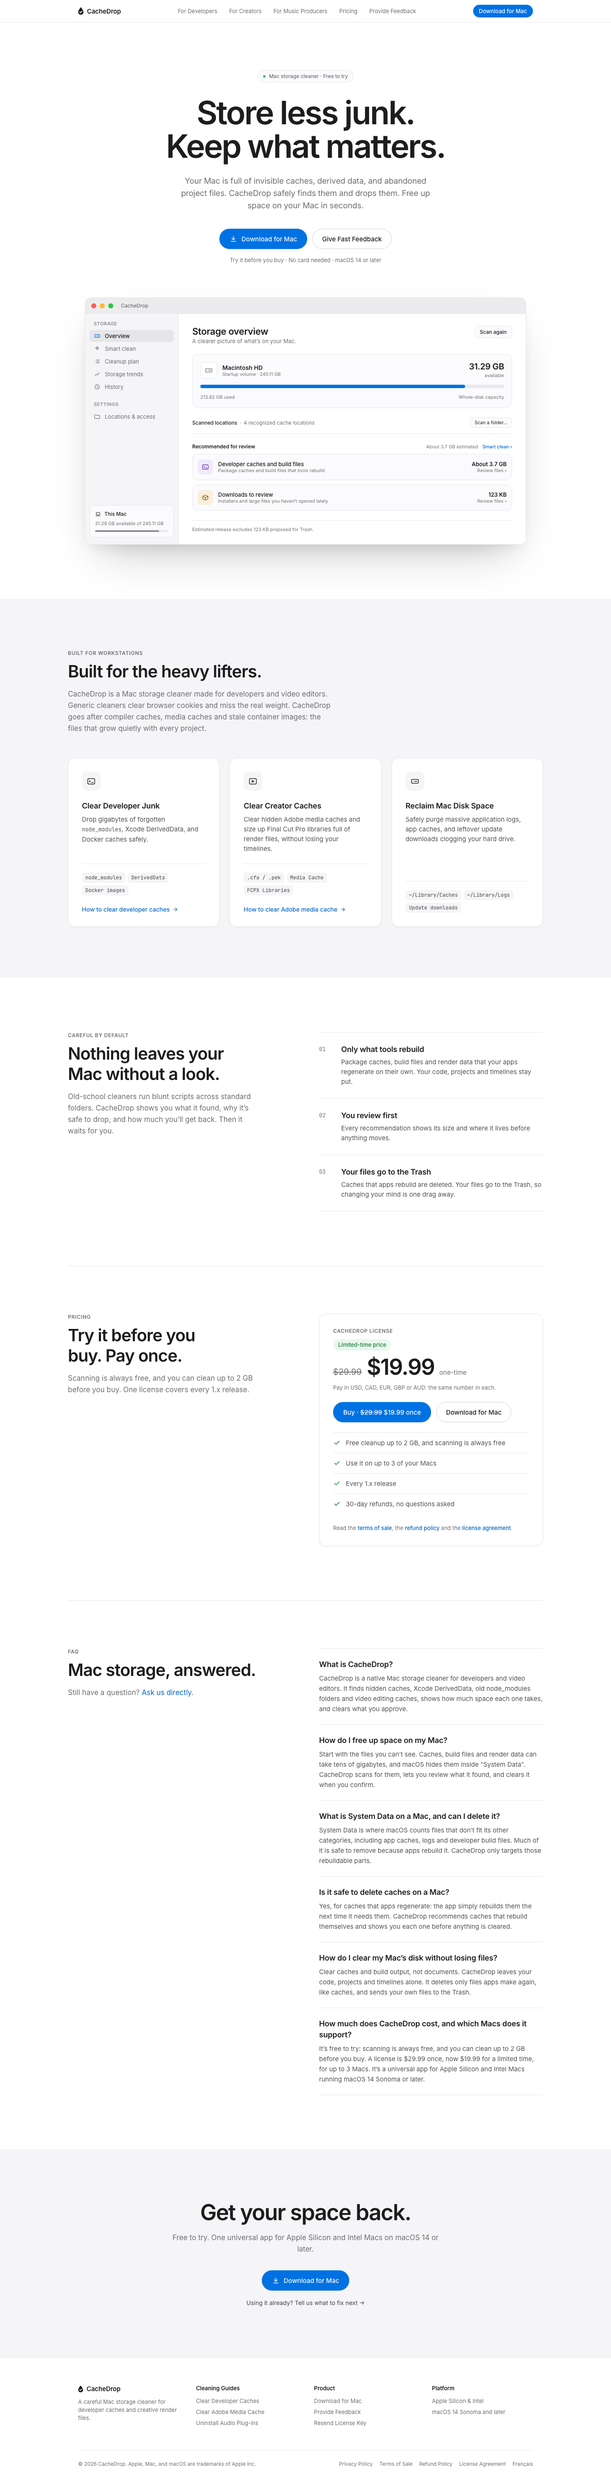
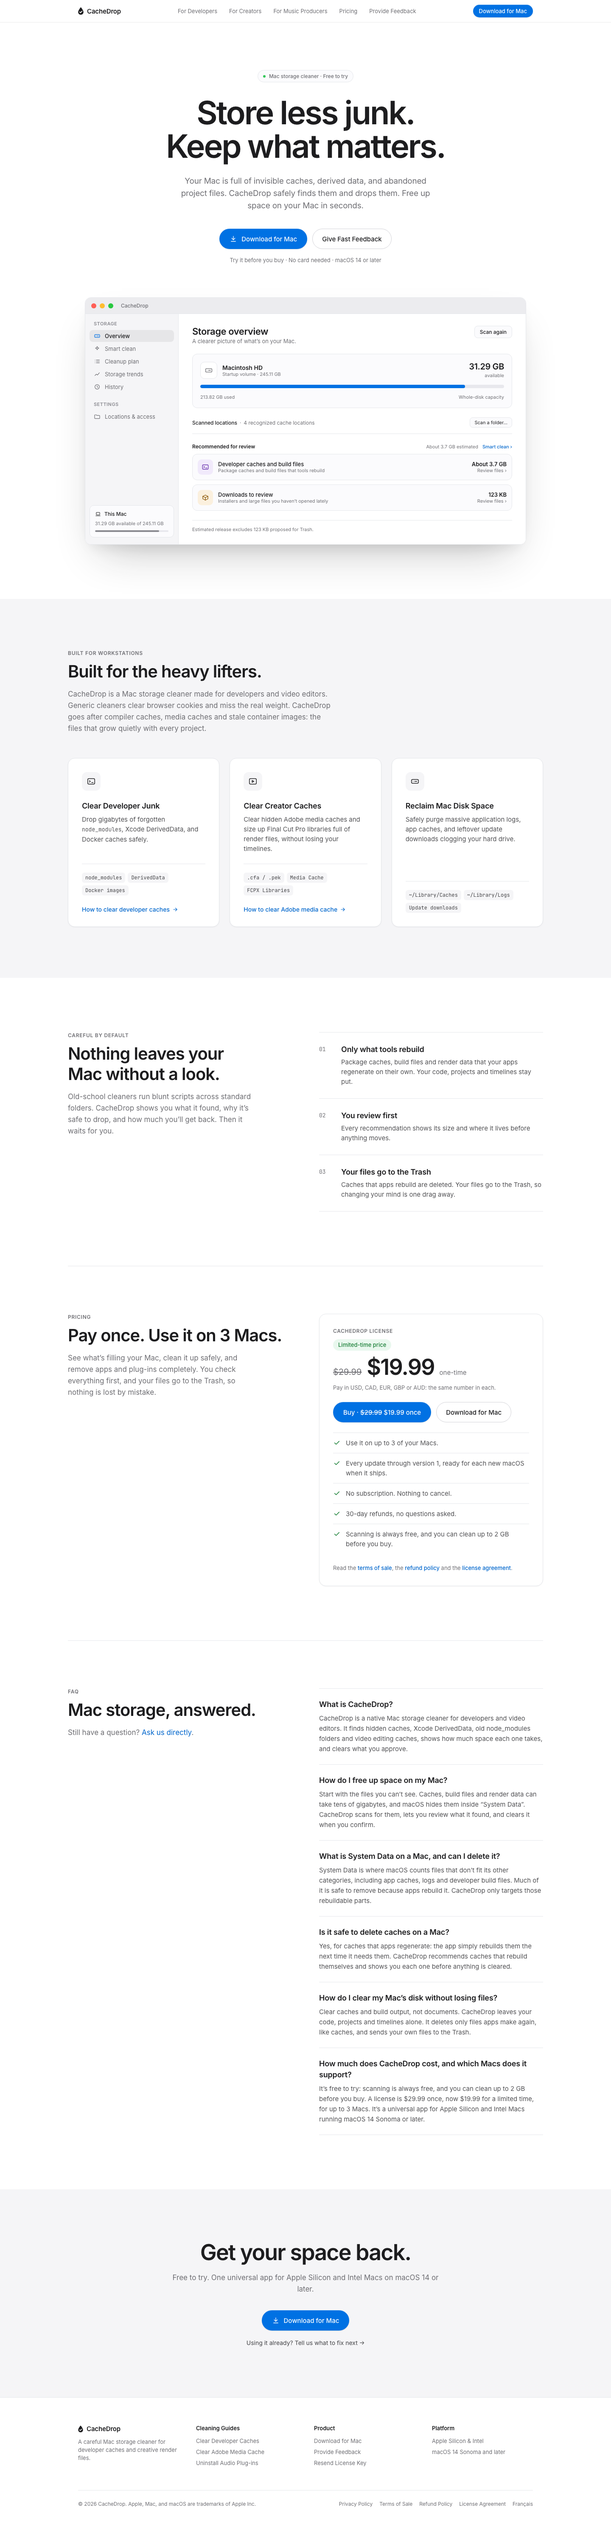
Pricing card copy: outcomes first, pay once for 3 Macs (#113) (#119)
* Pricing card copy: outcomes first, pay once for 3 Macs (#113)

The pricing section (on /pricing/ and the homepage) now leads with what
CacheDrop does, then the price: "Pay once. Use it on 3 Macs." over a line on
seeing what fills your Mac, cleaning it up safely and removing apps and
plug-ins completely. The card lists up to 3 Macs, every update through
version 1 ready for each new macOS, no subscription and nothing to cancel,
30-day refunds, and the trial. The /pricing/ title and meta follow; price
wording stays per Decision 47. French in the glossary's terms.

The link to the compare page (#87) waits behind `compareLive` in pricing.ts,
off in both languages until that page is built and indexed; a Playwright
test fails if the switch and the build disagree, so it never links a 404 or
the noindex draft.

Claude-Session: https://claude.ai/code/session_01K3hKP6WD4q724NtMbye1eE

* Pricing card: compare link points at /cleanmymac-alternative/, #87's grilled slug (#113)

Claude-Session: https://claude.ai/code/session_01K3hKP6WD4q724NtMbye1eE

* Re-render the homepage reference renders with the new pricing card (#113)

Claude-Session: https://claude.ai/code/session_01K3hKP6zK118AJXqy9xewcn

---------

diff --git a/tests/fixtures/handoff-pricing-section.html b/tests/fixtures/handoff-pricing-section.html
@@ -1,2 +1,2 @@
 <!-- The homepage pricing section (Decisions 44, 47, 51) in the handoff's form, for tests/handoff-changes.ts. It has no handoff original: this is the built section with the design tokens resolved to the literal values the handoff writes, and .sr-only inlined. Change it with PricingSection.astro. -->
-<section id="pricing" aria-labelledby="pricing-title" style="padding: 0 24px 128px"><div style="max-width: 1120px; margin: 0 auto; padding-top: 112px; border-top: 1px solid #E5E7EB; display: grid; grid-template-columns: repeat(auto-fit, minmax(min(380px, 100%), 1fr)); gap: 64px; align-items: start"><div><p style="margin: 0 0 12px; font-size: 12px; font-weight: 600; letter-spacing: 0.06em; text-transform: uppercase; color: #6E6E73">Pricing</p><h2 id="pricing-title" style="margin: 0; font-size: clamp(28px, 3.4vw, 40px); line-height: 1.2; font-weight: 600; letter-spacing: -0.025em; text-wrap: balance">Try it before you buy. Pay once.</h2><p style="margin: 16px 0 0; max-width: 440px; font-size: 17px; line-height: 27px; color: #6E6E73; text-wrap: pretty">Scanning is always free, and you can clean up to 2 GB before you buy. One license covers every 1.x release.</p></div><article aria-labelledby="pricing-name" style="background: #FFFFFF; border: 1px solid #E5E7EB; border-radius: 16px; padding: 32px; box-shadow: 0 1px 3px rgba(0, 0, 0, 0.04), 0 1px 2px rgba(0, 0, 0, 0.02); display: flex; flex-direction: column; gap: 24px"><div><h3 id="pricing-name" style="margin: 0 0 12px; font-size: 12px; font-weight: 600; letter-spacing: 0.06em; text-transform: uppercase; color: #6E6E73">CacheDrop license</h3><p aria-hidden="true" style="margin: 0 0 12px; display: inline-flex; font-size: 13px; line-height: 19px; font-weight: 500; color: #1A7F37; background: #E9F8EE; border-radius: 9999px; padding: 4px 12px">Limited-time price</p><p data-price style="margin: 0; display: flex; flex-wrap: wrap; align-items: baseline; gap: 8px 12px"><span style="position: absolute; width: 1px; height: 1px; padding: 0; margin: -1px; overflow: hidden; clip: rect(0,0,0,0); white-space: nowrap; border: 0">Was $29.99, now $19.99 for a limited time, one-time.</span><s aria-hidden="true" style="font-size: 20px; color: #6E6E73">$29.99</s><span aria-hidden="true" style="font-size: clamp(40px, 5vw, 52px); line-height: 1.04; font-weight: 600; letter-spacing: -0.035em">$19.99</span><span aria-hidden="true" style="font-size: 15px; color: #6E6E73">one-time</span></p><p style="margin: 12px 0 0; font-size: 13px; line-height: 19px; color: #6E6E73">Pay in USD, CAD, EUR, GBP or AUD: the same number in each.</p></div><div style="display: flex; flex-wrap: wrap; gap: 12px"><a class="btn-primary" href="/buy" style="display: inline-flex; align-items: center; gap: 10px; height: 48px; padding: 0 24px; border-radius: 9999px; background: #0071E3; font-size: 15px; font-weight: 500; box-shadow: inset 0 1px 0 rgba(255, 255, 255, 0.2), 0 1px 2px rgba(0, 0, 0, 0.12)"><span>Buy · <span style="position: absolute; width: 1px; height: 1px; padding: 0; margin: -1px; overflow: hidden; clip: rect(0,0,0,0); white-space: nowrap; border: 0">was</span> <s>$29.99</s> <span style="position: absolute; width: 1px; height: 1px; padding: 0; margin: -1px; overflow: hidden; clip: rect(0,0,0,0); white-space: nowrap; border: 0">now</span> $19.99 once</span></a><a class="btn-ghost" href="/download/" style="display: inline-flex; align-items: center; height: 48px; padding: 0 22px; border-radius: 9999px; border: 1px solid #D2D2D7; background: #FFFFFF; color: #1D1D1F; font-size: 15px; font-weight: 500">Download for Mac</a></div><ul aria-label="What’s included" style="margin: 0; padding: 0; list-style: none; display: flex; flex-direction: column"><li style="display: flex; gap: 12px; padding: 12px 0; border-top: 1px solid #E5E7EB; font-size: 15px; line-height: 23px; color: #515154"><svg style="flex: none; margin-top: 2px; color: #1A7F37" width="18" height="18" viewBox="0 0 24 24" fill="none" stroke="currentColor" stroke-width="2" stroke-linecap="round" stroke-linejoin="round" aria-hidden="true"><path d="M5 12.5l4.5 4.5L19 7.5"></path></svg><span>Free cleanup up to 2 GB, and scanning is always free</span></li><li style="display: flex; gap: 12px; padding: 12px 0; border-top: 1px solid #E5E7EB; font-size: 15px; line-height: 23px; color: #515154"><svg style="flex: none; margin-top: 2px; color: #1A7F37" width="18" height="18" viewBox="0 0 24 24" fill="none" stroke="currentColor" stroke-width="2" stroke-linecap="round" stroke-linejoin="round" aria-hidden="true"><path d="M5 12.5l4.5 4.5L19 7.5"></path></svg><span>Use it on up to 3 of your Macs</span></li><li style="display: flex; gap: 12px; padding: 12px 0; border-top: 1px solid #E5E7EB; font-size: 15px; line-height: 23px; color: #515154"><svg style="flex: none; margin-top: 2px; color: #1A7F37" width="18" height="18" viewBox="0 0 24 24" fill="none" stroke="currentColor" stroke-width="2" stroke-linecap="round" stroke-linejoin="round" aria-hidden="true"><path d="M5 12.5l4.5 4.5L19 7.5"></path></svg><span>Every 1.x release</span></li><li style="display: flex; gap: 12px; padding: 12px 0; border-top: 1px solid #E5E7EB; font-size: 15px; line-height: 23px; color: #515154"><svg style="flex: none; margin-top: 2px; color: #1A7F37" width="18" height="18" viewBox="0 0 24 24" fill="none" stroke="currentColor" stroke-width="2" stroke-linecap="round" stroke-linejoin="round" aria-hidden="true"><path d="M5 12.5l4.5 4.5L19 7.5"></path></svg><span>30-day refunds, no questions asked</span></li></ul><p style="margin: 0; font-size: 13px; line-height: 19px; color: #6E6E73">Read the <a class="textlink" href="/terms-of-sale/" style="color: #0066CC; font-weight: 500">terms of sale</a>, the <a class="textlink" href="/refund-policy/" style="color: #0066CC; font-weight: 500">refund policy</a> and the <a class="textlink" href="/license-agreement/" style="color: #0066CC; font-weight: 500">license agreement</a>.</p></article></div></section>
+<section id="pricing" aria-labelledby="pricing-title" style="padding: 0 24px 128px"><div style="max-width: 1120px; margin: 0 auto; padding-top: 112px; border-top: 1px solid #E5E7EB; display: grid; grid-template-columns: repeat(auto-fit, minmax(min(380px, 100%), 1fr)); gap: 64px; align-items: start"><div><p style="margin: 0 0 12px; font-size: 12px; font-weight: 600; letter-spacing: 0.06em; text-transform: uppercase; color: #6E6E73">Pricing</p><h2 id="pricing-title" style="margin: 0; font-size: clamp(28px, 3.4vw, 40px); line-height: 1.2; font-weight: 600; letter-spacing: -0.025em; text-wrap: balance">Pay once. Use it on 3 Macs.</h2><p style="margin: 16px 0 0; max-width: 440px; font-size: 17px; line-height: 27px; color: #6E6E73; text-wrap: pretty">See what’s filling your Mac, clean it up safely, and remove apps and plug-ins completely. You check everything first, and your files go to the Trash, so nothing is lost by mistake.</p></div><article aria-labelledby="pricing-name" style="background: #FFFFFF; border: 1px solid #E5E7EB; border-radius: 16px; padding: 32px; box-shadow: 0 1px 3px rgba(0, 0, 0, 0.04), 0 1px 2px rgba(0, 0, 0, 0.02); display: flex; flex-direction: column; gap: 24px"><div><h3 id="pricing-name" style="margin: 0 0 12px; font-size: 12px; font-weight: 600; letter-spacing: 0.06em; text-transform: uppercase; color: #6E6E73">CacheDrop license</h3><p aria-hidden="true" style="margin: 0 0 12px; display: inline-flex; font-size: 13px; line-height: 19px; font-weight: 500; color: #1A7F37; background: #E9F8EE; border-radius: 9999px; padding: 4px 12px">Limited-time price</p><p data-price style="margin: 0; display: flex; flex-wrap: wrap; align-items: baseline; gap: 8px 12px"><span style="position: absolute; width: 1px; height: 1px; padding: 0; margin: -1px; overflow: hidden; clip: rect(0,0,0,0); white-space: nowrap; border: 0">Was $29.99, now $19.99 for a limited time, one-time.</span><s aria-hidden="true" style="font-size: 20px; color: #6E6E73">$29.99</s><span aria-hidden="true" style="font-size: clamp(40px, 5vw, 52px); line-height: 1.04; font-weight: 600; letter-spacing: -0.035em">$19.99</span><span aria-hidden="true" style="font-size: 15px; color: #6E6E73">one-time</span></p><p style="margin: 12px 0 0; font-size: 13px; line-height: 19px; color: #6E6E73">Pay in USD, CAD, EUR, GBP or AUD: the same number in each.</p></div><div style="display: flex; flex-wrap: wrap; gap: 12px"><a class="btn-primary" href="/buy" style="display: inline-flex; align-items: center; gap: 10px; height: 48px; padding: 0 24px; border-radius: 9999px; background: #0071E3; font-size: 15px; font-weight: 500; box-shadow: inset 0 1px 0 rgba(255, 255, 255, 0.2), 0 1px 2px rgba(0, 0, 0, 0.12)"><span>Buy · <span style="position: absolute; width: 1px; height: 1px; padding: 0; margin: -1px; overflow: hidden; clip: rect(0,0,0,0); white-space: nowrap; border: 0">was</span> <s>$29.99</s> <span style="position: absolute; width: 1px; height: 1px; padding: 0; margin: -1px; overflow: hidden; clip: rect(0,0,0,0); white-space: nowrap; border: 0">now</span> $19.99 once</span></a><a class="btn-ghost" href="/download/" style="display: inline-flex; align-items: center; height: 48px; padding: 0 22px; border-radius: 9999px; border: 1px solid #D2D2D7; background: #FFFFFF; color: #1D1D1F; font-size: 15px; font-weight: 500">Download for Mac</a></div><ul aria-label="What’s included" style="margin: 0; padding: 0; list-style: none; display: flex; flex-direction: column"><li style="display: flex; gap: 12px; padding: 12px 0; border-top: 1px solid #E5E7EB; font-size: 15px; line-height: 23px; color: #515154"><svg style="flex: none; margin-top: 2px; color: #1A7F37" width="18" height="18" viewBox="0 0 24 24" fill="none" stroke="currentColor" stroke-width="2" stroke-linecap="round" stroke-linejoin="round" aria-hidden="true"><path d="M5 12.5l4.5 4.5L19 7.5"></path></svg><span>Use it on up to 3 of your Macs.</span></li><li style="display: flex; gap: 12px; padding: 12px 0; border-top: 1px solid #E5E7EB; font-size: 15px; line-height: 23px; color: #515154"><svg style="flex: none; margin-top: 2px; color: #1A7F37" width="18" height="18" viewBox="0 0 24 24" fill="none" stroke="currentColor" stroke-width="2" stroke-linecap="round" stroke-linejoin="round" aria-hidden="true"><path d="M5 12.5l4.5 4.5L19 7.5"></path></svg><span>Every update through version 1, ready for each new macOS when it ships.</span></li><li style="display: flex; gap: 12px; padding: 12px 0; border-top: 1px solid #E5E7EB; font-size: 15px; line-height: 23px; color: #515154"><svg style="flex: none; margin-top: 2px; color: #1A7F37" width="18" height="18" viewBox="0 0 24 24" fill="none" stroke="currentColor" stroke-width="2" stroke-linecap="round" stroke-linejoin="round" aria-hidden="true"><path d="M5 12.5l4.5 4.5L19 7.5"></path></svg><span>No subscription. Nothing to cancel.</span></li><li style="display: flex; gap: 12px; padding: 12px 0; border-top: 1px solid #E5E7EB; font-size: 15px; line-height: 23px; color: #515154"><svg style="flex: none; margin-top: 2px; color: #1A7F37" width="18" height="18" viewBox="0 0 24 24" fill="none" stroke="currentColor" stroke-width="2" stroke-linecap="round" stroke-linejoin="round" aria-hidden="true"><path d="M5 12.5l4.5 4.5L19 7.5"></path></svg><span>30-day refunds, no questions asked.</span></li><li style="display: flex; gap: 12px; padding: 12px 0; border-top: 1px solid #E5E7EB; font-size: 15px; line-height: 23px; color: #515154"><svg style="flex: none; margin-top: 2px; color: #1A7F37" width="18" height="18" viewBox="0 0 24 24" fill="none" stroke="currentColor" stroke-width="2" stroke-linecap="round" stroke-linejoin="round" aria-hidden="true"><path d="M5 12.5l4.5 4.5L19 7.5"></path></svg><span>Scanning is always free, and you can clean up to 2 GB before you buy.</span></li></ul><p style="margin: 0; font-size: 13px; line-height: 19px; color: #6E6E73">Read the <a class="textlink" href="/terms-of-sale/" style="color: #0066CC; font-weight: 500">terms of sale</a>, the <a class="textlink" href="/refund-policy/" style="color: #0066CC; font-weight: 500">refund policy</a> and the <a class="textlink" href="/license-agreement/" style="color: #0066CC; font-weight: 500">license agreement</a>.</p></article></div></section>

diff --git a/tests/pricing.spec.ts b/tests/pricing.spec.ts
@@ -1,5 +1,6 @@
 import { test, expect, type Page } from '@playwright/test';
 import { pages, ui } from './pages';
+import { compareLive } from '../src/components/pricing';
 
 // Pricing (Decisions 44 and 47) on every build: the launch setting retired with Decision 52.
 const withPricing = [...pages, { path: '/pricing/' }, { path: '/fr/pricing/', lang: 'fr' as const }];
@@ -9,11 +10,20 @@ const copy = {
   en: {
     pricing: ['Pricing', '/pricing/'],
     download: 'Download for Mac',
-    title: 'Try it before you buy. Pay once.',
+    title: 'Pay once. Use it on 3 Macs.',
+    body: 'See what’s filling your Mac, clean it up safely, and remove apps and plug-ins completely.',
     spoken: 'Was $29.99, now $19.99 for a limited time, one-time.',
     shown: ['$29.99', '$19.99', 'one-time'],
     currencies: 'Pay in USD, CAD, EUR, GBP or AUD: the same number in each.',
-    items: ['Free cleanup up to 2 GB, and scanning is always free', 'Use it on up to 3 of your Macs', 'Every 1.x release', '30-day refunds, no questions asked'],
+    // #113: the owner's wording for 3 Macs, version 1 updates, nothing to cancel and refunds.
+    items: [
+      'Use it on up to 3 of your Macs.',
+      'Every update through version 1, ready for each new macOS when it ships.',
+      'No subscription. Nothing to cancel.',
+      '30-day refunds, no questions asked.',
+      'Scanning is always free, and you can clean up to 2 GB before you buy.',
+    ],
+    compare: 'Compare CacheDrop with other Mac cleaners',
     // Decision 51: "Buy · $29.99 once", the regular price struck through before the offer.
     buy: ['Buy · was $29.99 now $19.99 once', '/buy'],
     legal: [['terms of sale', '/terms-of-sale/'], ['refund policy', '/refund-policy/'], ['license agreement', '/license-agreement/']],
@@ -23,11 +33,19 @@ const copy = {
   fr: {
     pricing: ['Tarifs', '/fr/pricing/'],
     download: 'Télécharger pour Mac',
-    title: 'Essayez-le avant d’acheter. Payez une seule fois.',
+    title: 'Payez une seule fois. Utilisez-le sur 3 Mac.',
+    body: 'Voyez ce qui remplit votre Mac, nettoyez-le en toute sécurité et désinstallez complètement applications et plug-ins.',
     spoken: 'Prix régulier 29,99 $, maintenant 19,99 $ pour un temps limité, une seule fois.',
     shown: ['29,99 $', '19,99 $', 'une seule fois'],
     currencies: 'Payez en USD, CAD, EUR, GBP ou AUD : le même montant dans chaque devise.',
-    items: ['Nettoyage gratuit jusqu’à 2 Go, et l’analyse est toujours gratuite', 'Sur un maximum de 3 de vos Mac', 'Toutes les versions 1.x', 'Remboursement dans les 30 jours, sans avoir à vous justifier'],
+    items: [
+      'Utilisez-le sur un maximum de 3 de vos Mac.',
+      'Toutes les mises à jour de la version 1, prêtes pour chaque nouvelle version de macOS dès sa sortie.',
+      'Aucun abonnement. Rien à annuler.',
+      'Remboursement dans les 30 jours, sans avoir à vous justifier.',
+      'L’analyse est toujours gratuite, et vous pouvez nettoyer jusqu’à 2 Go avant d’acheter.',
+    ],
+    compare: 'Comparer CacheDrop aux autres nettoyeurs pour Mac',
     news: 'Envoyez-moi des nouvelles de CacheDrop par courriel : nouvelles fonctionnalités et sondages.',
     buy: ['Acheter · prix régulier 29,99\u00a0$ maintenant 19,99\u00a0$', '/buy?lang=fr'],
     legal: [['conditions de vente', '/fr/terms-of-sale/'], ['politique de remboursement', '/fr/refund-policy/'], ['contrat de licence', '/fr/license-agreement/']],
@@ -39,6 +57,11 @@ async function expectPricing(page: Page, lang: 'en' | 'fr', level: 1 | 2) {
   const c = copy[lang];
   const section = page.getByRole('region', { name: c.title });
   await expect(section.getByRole('heading', { level, name: c.title })).toBeVisible();
+  // What CacheDrop does comes before the price in reading order (#113).
+  const body = section.getByText(c.body);
+  await expect(body).toBeVisible();
+  const priceHandle = await section.locator('[data-price]').elementHandle();
+  expect(await body.evaluate((b, p) => !!(b.compareDocumentPosition(p!) & Node.DOCUMENT_POSITION_FOLLOWING), priceHandle)).toBe(true);
   const price = section.locator('[data-price]');
   // Screen readers get the sentence; the struck-through and current prices are hidden from them.
   await expect(price.locator('.sr-only')).toHaveText(c.spoken);
@@ -116,6 +139,42 @@ test('the price answers state the regular price and the discount (Decision 47)',
   await page.goto('/fr/');
   await expect(page.getByText('La licence coûte 29,99\u00a0$ une seule fois, maintenant 19,99\u00a0$ pour un temps limité, pour un maximum de 3 Mac.')).toBeVisible();
 });
+
+test('the /pricing/ title and meta lead with what CacheDrop does, then the price and terms (#113)', async ({ page }) => {
+  await page.goto('/pricing/');
+  expect(await page.title()).toBe('CacheDrop Pricing – $29.99 Once for Up to 3 Macs');
+  await expect(page.locator('meta[name="description"]')).toHaveAttribute(
+    'content',
+    'CacheDrop finds what’s filling your Mac and clears it safely. A license is $29.99 once, now $19.99 for a limited time, for up to 3 Macs, with every update through version 1 and 30-day refunds. Nothing to cancel.',
+  );
+  await page.goto('/fr/pricing/');
+  expect(await page.title()).toBe('Tarifs de CacheDrop – 29,99 $ une seule fois, jusqu’à 3 Mac');
+  await expect(page.locator('meta[name="description"]')).toHaveAttribute(
+    'content',
+    'CacheDrop trouve ce qui remplit votre Mac et le nettoie en toute sécurité. La licence coûte 29,99 $ une seule fois, maintenant 19,99 $ pour un temps limité, pour un maximum de 3 Mac, avec toutes les mises à jour de la version 1 et le remboursement dans les 30 jours. Rien à annuler.',
+  );
+});
+
+// #113: the card links to the compare page (#87) only while that page is built and indexed in the
+// page's language, so the link never leads to a 404 or a draft. Turning `compareLive` on is the
+// compare page's job; this fails if the switch and the build disagree either way.
+for (const lang of ['en', 'fr'] as const) {
+  test(`${lang}: the pricing card links to the compare page exactly when it is live`, async ({ page, request }) => {
+    const target = lang === 'en' ? '/cleanmymac-alternative/' : '/fr/cleanmymac-alternative/';
+    const res = await request.get(target);
+    const live = res.status() === 200 && !/<meta name="robots"[^>]*noindex/.test(await res.text());
+    expect(compareLive[lang], `compareLive.${lang} must match whether ${target} is live`).toBe(live);
+    for (const path of [copy[lang].pricing[1], ui[lang].home]) {
+      await page.goto(path);
+      const link = page.locator('#pricing [data-compare]');
+      await expect(link).toHaveCount(live ? 1 : 0);
+      if (live) {
+        await expect(link).toHaveAttribute('href', target);
+        await expect(link).toHaveText(copy[lang].compare);
+      }
+    }
+  });
+}
 
 test('the sitemap lists /pricing/ and /fr/pricing/', async ({ request }) => {
   const xml = await (await request.get('/sitemap.xml')).text();

diff --git a/src/components/pricing.ts b/src/components/pricing.ts
@@ -13,6 +13,13 @@ export const buyHref = (lang: Lang) => (lang === 'fr' ? '/buy?lang=fr' : '/buy')
  */
 export const price: { readonly regular: string; readonly offer: string } = { regular: '29.99', offer: '19.99' };
 
+/**
+ * Whether the pricing section links to the compare page (#87) in each language. It stays off until
+ * that page is built and indexed in the language, so the link never leads to a 404 or a draft;
+ * tests/pricing.spec.ts fails if this disagrees with the build either way.
+ */
+export const compareLive: Readonly<Record<Lang, boolean>> = { en: false, fr: false };
+
 /** Whether the limited-time offer is running. */
 export const discounted = price.offer !== price.regular;
 
@@ -24,8 +31,9 @@ const fr = (n: string) => `${n.replace('.', ',')}\u00a0$`;
 export const pricingCopy = {
   en: {
     eyebrow: 'Pricing',
-    title: 'Try it before you buy. Pay once.',
-    body: 'Scanning is always free, and you can clean up to 2 GB before you buy. One license covers every 1.x release.',
+    // Outcomes first, then the price (Decision 51, #113).
+    title: 'Pay once. Use it on 3 Macs.',
+    body: 'See what’s filling your Mac, clean it up safely, and remove apps and plug-ins completely. You check everything first, and your files go to the Trash, so nothing is lost by mistake.',
     name: 'CacheDrop license',
     was: en(price.regular),
     now: en(price.offer),
@@ -35,11 +43,14 @@ export const pricingCopy = {
     currencies: 'Pay in USD, CAD, EUR, GBP or AUD: the same number in each.',
     included: 'What’s included',
     items: [
-      'Free cleanup up to 2 GB, and scanning is always free',
-      'Use it on up to 3 of your Macs',
-      'Every 1.x release',
-      '30-day refunds, no questions asked',
+      'Use it on up to 3 of your Macs.',
+      'Every update through version 1, ready for each new macOS when it ships.',
+      'No subscription. Nothing to cancel.',
+      '30-day refunds, no questions asked.',
+      'Scanning is always free, and you can clean up to 2 GB before you buy.',
     ],
+    // Shown only while the compare page (#87) is built and indexed in this language (`compareLive`).
+    compare: 'Compare CacheDrop with other Mac cleaners',
     // The Buy button (Decision 51): "Buy · $29.99 once", with the offer shown as on the card (Decision 47).
     buy: 'Buy',
     buyOnce: 'once',
@@ -53,8 +64,8 @@ export const pricingCopy = {
   },
   fr: {
     eyebrow: 'Tarifs',
-    title: 'Essayez-le avant d’acheter. Payez une seule fois.',
-    body: 'L’analyse est toujours gratuite, et vous pouvez nettoyer jusqu’à 2 Go avant d’acheter. Une licence vous donne toutes les versions 1.x.',
+    title: 'Payez une seule fois. Utilisez-le sur 3 Mac.',
+    body: 'Voyez ce qui remplit votre Mac, nettoyez-le en toute sécurité et désinstallez complètement applications et plug-ins. Vous vérifiez tout avant, et vos fichiers vont dans la Corbeille, donc rien n’est perdu par erreur.',
     name: 'Licence CacheDrop',
     was: fr(price.regular),
     now: fr(price.offer),
@@ -64,11 +75,13 @@ export const pricingCopy = {
     currencies: 'Payez en USD, CAD, EUR, GBP ou AUD : le même montant dans chaque devise.',
     included: 'Ce qui est inclus',
     items: [
-      'Nettoyage gratuit jusqu’à 2 Go, et l’analyse est toujours gratuite',
-      'Sur un maximum de 3 de vos Mac',
-      'Toutes les versions 1.x',
-      'Remboursement dans les 30 jours, sans avoir à vous justifier',
+      'Utilisez-le sur un maximum de 3 de vos Mac.',
+      'Toutes les mises à jour de la version 1, prêtes pour chaque nouvelle version de macOS dès sa sortie.',
+      'Aucun abonnement. Rien à annuler.',
+      'Remboursement dans les 30 jours, sans avoir à vous justifier.',
+      'L’analyse est toujours gratuite, et vous pouvez nettoyer jusqu’à 2 Go avant d’acheter.',
     ],
+    compare: 'Comparer CacheDrop aux autres nettoyeurs pour Mac',
     buy: 'Acheter',
     // No « une seule fois » on the button: it wraps at 390 px, and the price above already says it (owner, #107).
     buyOnce: '',
